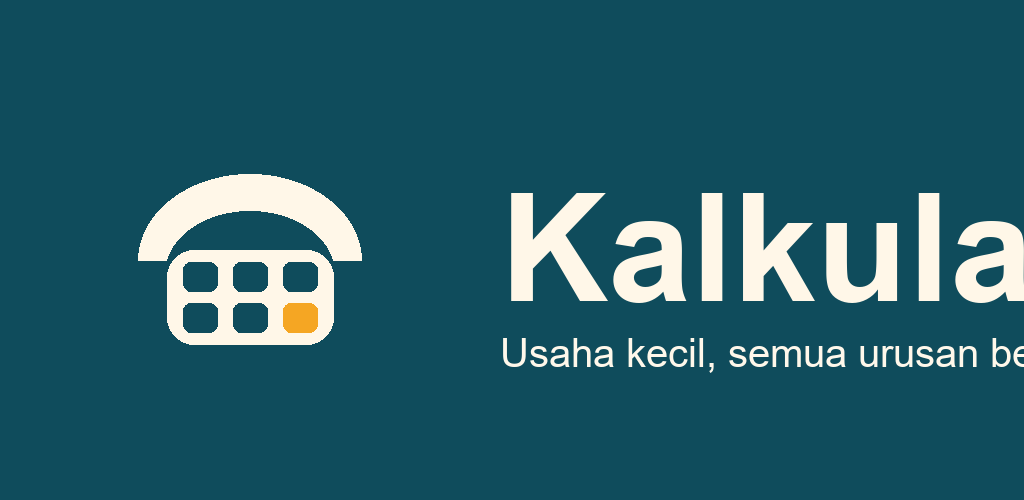
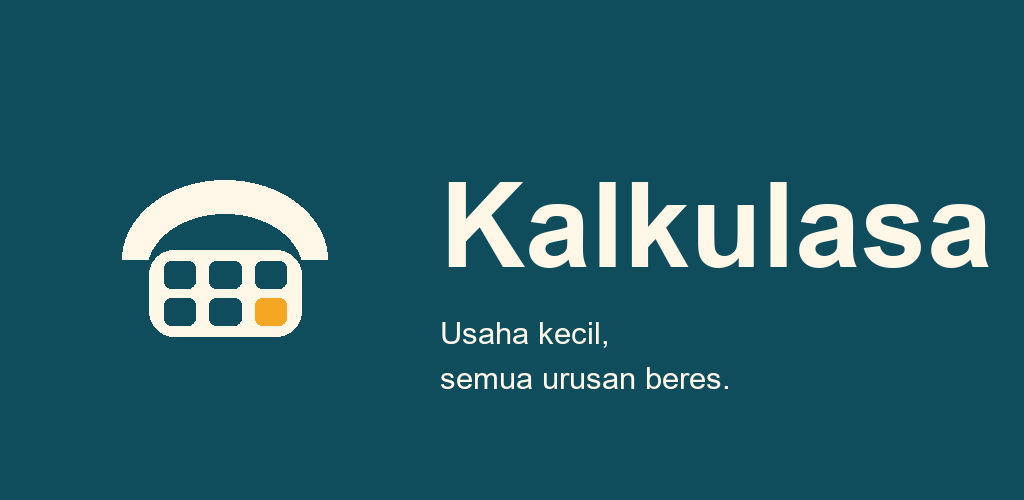
fix: correct feature graphic text clipping

Changed region(s): [[0.4375, 0.36, 1.0, 0.63], [0.0938, 0.33, 0.375, 0.69], [0.4062, 0.63, 1.0, 0.78]]

diff --git a/tools/generate_icons.py b/tools/generate_icons.py
@@ -139,17 +139,18 @@ store_icon.save(os.path.join(store_dir, "icon-512.png"))
 
 # Feature graphic 1024x500: teal background, mark on left, wordmark
 fg_graphic = Image.new("RGBA", (1024, 500), TEAL)
-logo500 = draw_logo(360, None, CREAM, CREAM, TEAL, AMBER)
-fg_graphic.alpha_composite(logo500, (70, 70))
+logo500 = draw_logo(330, None, CREAM, CREAM, TEAL, AMBER)
+fg_graphic.alpha_composite(logo500, (60, 85))
 from PIL import ImageFont
 try:
-    font_big = ImageFont.truetype("arialbd.ttf", 150)
-    font_small = ImageFont.truetype("arial.ttf", 40)
+    font_big = ImageFont.truetype("arialbd.ttf", 118)
+    font_small = ImageFont.truetype("arial.ttf", 31)
 except OSError:
     font_big = ImageFont.load_default()
     font_small = ImageFont.load_default()
 d = ImageDraw.Draw(fg_graphic)
-d.text((500, 165), "Kalkulasa", font=font_big, fill=CREAM)
-d.text((500, 330), "Usaha kecil, semua urusan beres.", font=font_small, fill=(255, 247, 232, 220))
+d.text((440, 160), "Kalkulasa", font=font_big, fill=CREAM)
+d.text((440, 315), "Usaha kecil,", font=font_small, fill=(255, 247, 232, 230))
+d.text((440, 360), "semua urusan beres.", font=font_small, fill=(255, 247, 232, 230))
 fg_graphic.save(os.path.join(store_dir, "feature-graphic-1024x500.png"))
 print("icons done")
